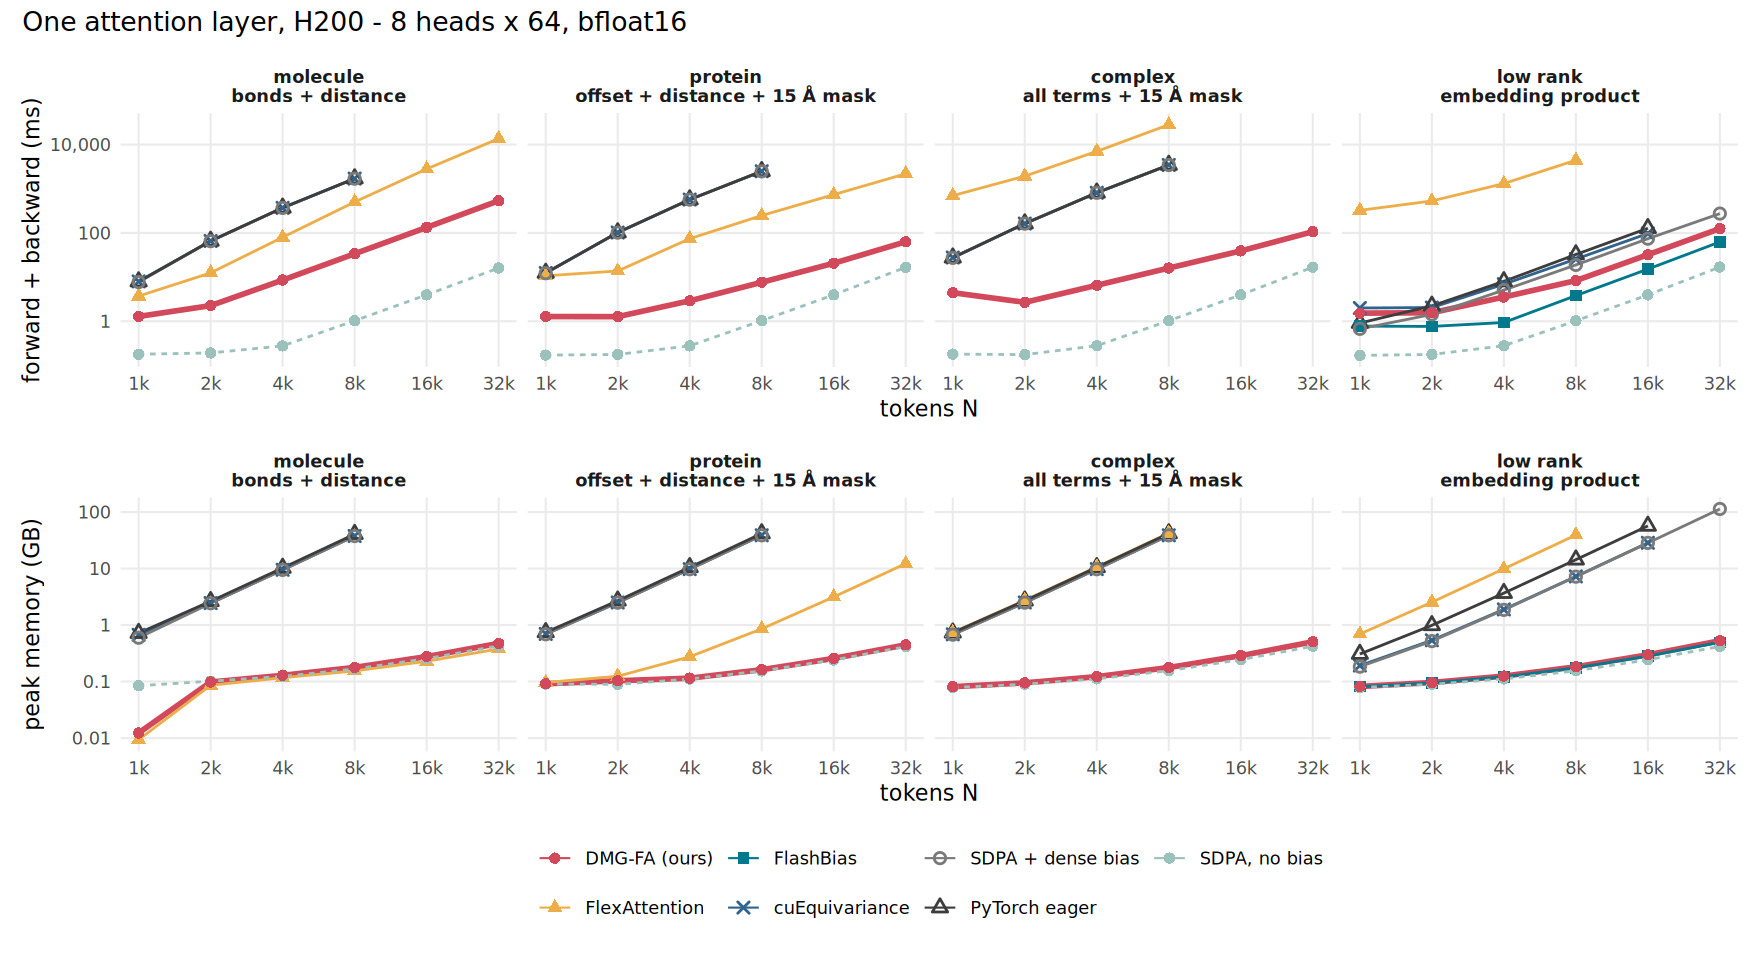
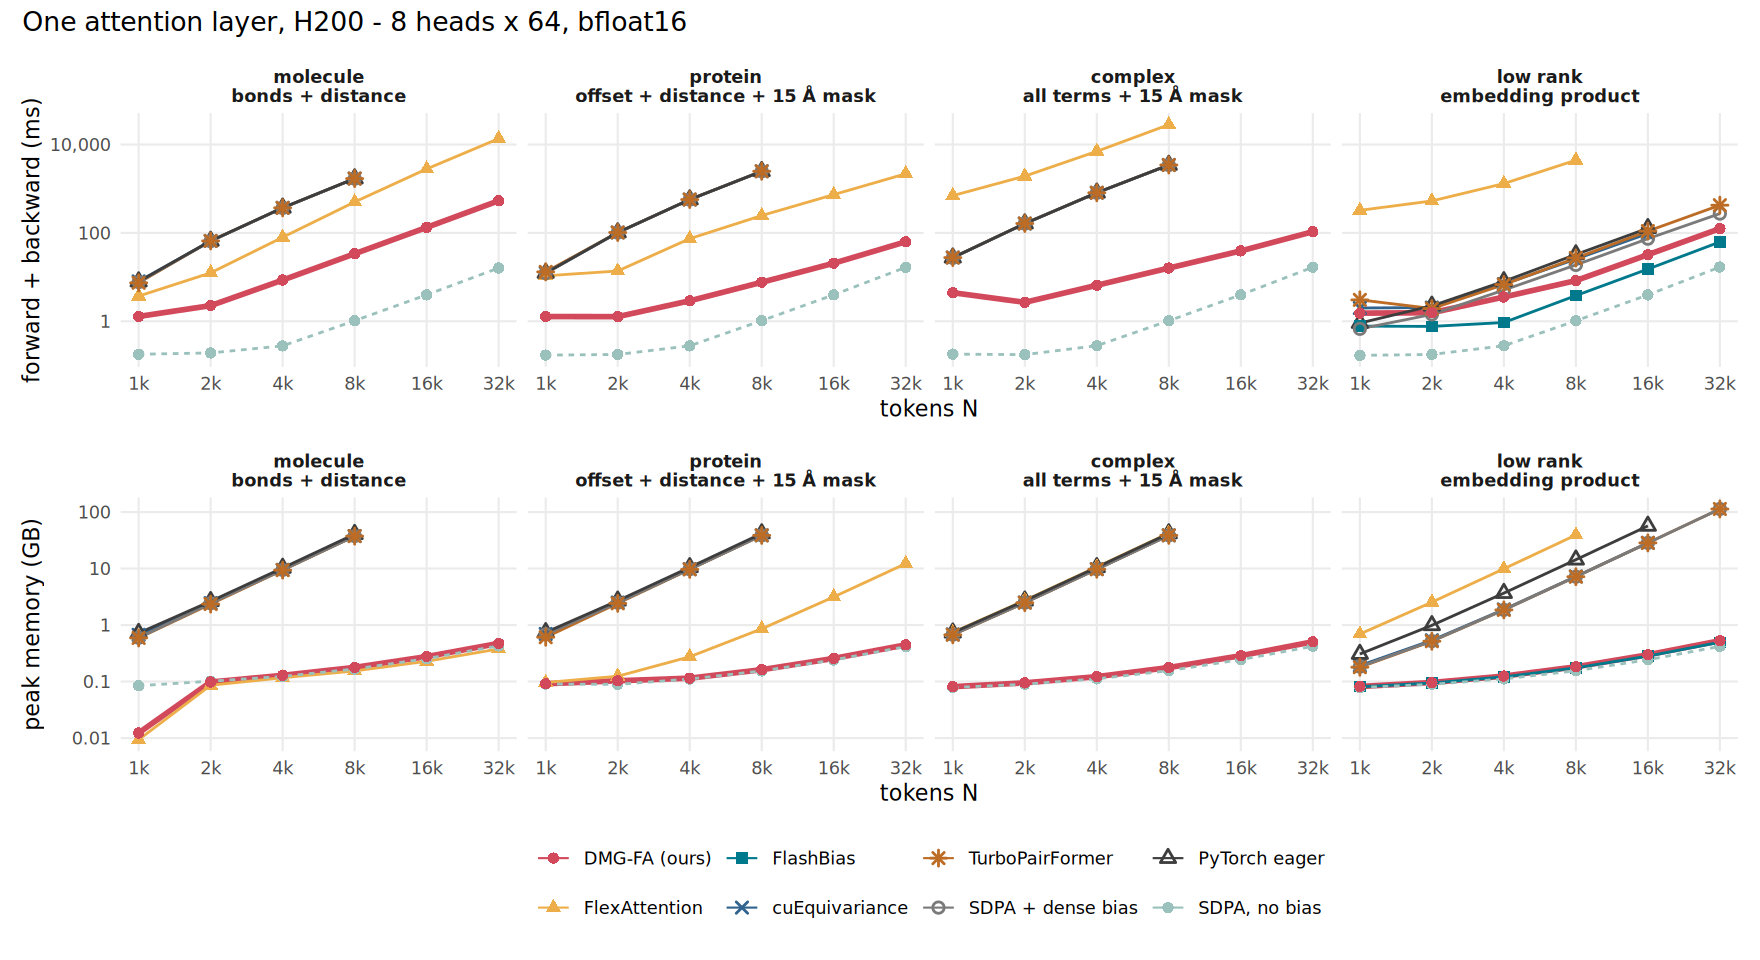
docs(benchmarks): add TurboPairFormer results on H200

diff --git a/docs/benchmarks.md b/docs/benchmarks.md
@@ -143,6 +143,7 @@ NVIDIA H200 (141 GB). Same layout as the A100 table.
 | complex | flex | 7031.1 ms, 10.68 GB | OOM | OOM |
 | complex | flashbias | n/a | n/a | n/a |
 | complex | cuequivariance | 811.1 ms, 9.77 GB | OOM | OOM |
+| complex | turbopairformer | 811.9 ms, 9.73 GB | OOM | OOM |
 | complex | sdpa+bias | 809.5 ms, 9.73 GB | OOM | OOM |
 | complex | eager | 812.0 ms, 10.52 GB | OOM | OOM |
 | complex | sdpa (no bias) | 0.3 ms, 0.11 GB | 4.0 ms, 0.24 GB | 16.7 ms, 0.42 GB |
@@ -150,6 +151,7 @@ NVIDIA H200 (141 GB). Same layout as the A100 table.
 | lowrank | flex | 1310.6 ms, 9.90 GB | n/a | n/a |
 | lowrank | flashbias | 0.9 ms, 0.12 GB | 15.2 ms, 0.28 GB | 62.5 ms, 0.50 GB |
 | lowrank | cuequivariance | 6.9 ms, 1.89 GB | 97.1 ms, 28.55 GB | OOM |
+| lowrank | turbopairformer | 6.8 ms, 1.85 GB | 109.9 ms, 28.42 GB | 424.3 ms, 113.27 GB |
 | lowrank | sdpa+bias | 5.1 ms, 1.86 GB | 74.0 ms, 28.41 GB | 273.9 ms, 113.24 GB |
 | lowrank | eager | 8.0 ms, 3.68 GB | 127.7 ms, 56.87 GB | OOM |
 | lowrank | sdpa (no bias) | 0.3 ms, 0.11 GB | 4.0 ms, 0.24 GB | 16.9 ms, 0.42 GB |
@@ -157,6 +159,7 @@ NVIDIA H200 (141 GB). Same layout as the A100 table.
 | molecule | flex | 79.8 ms, 0.12 GB | 2807.6 ms, 0.23 GB | 13638.8 ms, 0.38 GB |
 | molecule | flashbias | n/a | n/a | n/a |
 | molecule | cuequivariance | 369.3 ms, 9.49 GB | OOM | OOM |
+| molecule | turbopairformer | 369.8 ms, 9.38 GB | OOM | OOM |
 | molecule | sdpa+bias | 367.8 ms, 9.46 GB | OOM | OOM |
 | molecule | eager | 370.9 ms, 10.25 GB | OOM | OOM |
 | molecule | sdpa (no bias) | 0.3 ms, 0.12 GB | 4.0 ms, 0.25 GB | 16.1 ms, 0.43 GB |
@@ -164,6 +167,7 @@ NVIDIA H200 (141 GB). Same layout as the A100 table.
 | protein | flex | 74.2 ms, 0.27 GB | 737.5 ms, 3.15 GB | 2186.1 ms, 12.23 GB |
 | protein | flashbias | n/a | n/a | n/a |
 | protein | cuequivariance | 569.5 ms, 9.76 GB | OOM | OOM |
+| protein | turbopairformer | 570.2 ms, 9.66 GB | OOM | OOM |
 | protein | sdpa+bias | 567.7 ms, 9.73 GB | OOM | OOM |
 | protein | eager | 569.9 ms, 10.52 GB | OOM | OOM |
 | protein | sdpa (no bias) | 0.3 ms, 0.11 GB | 4.0 ms, 0.24 GB | 16.7 ms, 0.41 GB |
